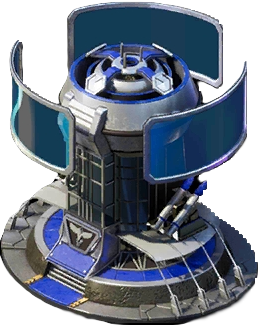
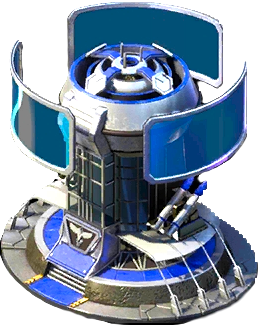
fix: image display objects

diff --git a/src/GameScene/Map/Map.ts b/src/GameScene/Map/Map.ts
@@ -63,16 +63,17 @@ export class GameMap extends Container {
         // create const objects base on matrix map
         map.forEach((val, idxX) => {
             val.forEach((value, idxY) => {
+                const grass = new Sprite(AssetsLoader.getTexture('grass-1'));
+                grass.width = 32,
+                grass.height = 32,
+                grass.anchor = 0.5;
+                grass.position = { x: idxX * 32 + 16, y: idxY * 32 + 16 };
+                this.addChild(grass);
+                grass.zIndex = 0;
                 if (value === 1) {
 
                     // create grass on map
-                    const grass = new Sprite(AssetsLoader.getTexture('grass-1'));
-                    grass.width = 32,
-                    grass.height = 32,
-                    grass.anchor = 0.5;
-                    grass.position = { x: idxX * 32 + 16, y: idxY * 32 + 16 };
-                    this.addChild(grass);
-                    grass.zIndex = 1;
+
                 }
                 if (value === 0) {
 
@@ -112,7 +113,8 @@ export class GameMap extends Container {
                     towerBase.width = 32;
                     towerBase.height = 32;
                     towerBase.zIndex = 3;
-                    towerBase.tint = 'f7f28d';
+                    towerBase.alpha = 0.8;
+                    // towerBase.tint = 'f7f28d';
 
                     this._towerBase.push(towerBase);
                     this.addChild(towerBase);
@@ -176,6 +178,8 @@ export class GameMap extends Container {
             }
             // send event to ui basic board display new wave
             Emitter.emit(AppConstants.event.displayWave, this._wave);
+            // plus gold for player at new wave
+            Emitter.emit(AppConstants.event.plusGold, (10 + this._wave));
             this._enemiesController.spawnWave(this._wave, { x: 15 * 32, y: -100 });
             // change texture of nuclear base
             this._nuclearBase.gotoAndStop(this._wave - 1);

diff --git a/src/ObjectsPool/Tower/Tower.ts b/src/ObjectsPool/Tower/Tower.ts
@@ -142,8 +142,8 @@ export class Tower extends BaseObject {
         Emitter.emit(AppConstants.event.addChildToScene, this._upgradeLevelImage);
 
 
-        this._dame.max = this._dame.max * this._level;
-        this._dame.min = this._dame.min * this._level;
+        this._dame.max += this._dame.max;
+        this._dame.min += this._dame.max - 50;
         this.fireTimeCd.fireTimeConst -= this.fireTimeCd.fireTimeConst / 10 ;
         this.effectArena += 15;
         this.circleImage.width = this.effectArena * 2;

diff --git a/src/GameScene/Constants.ts b/src/GameScene/Constants.ts
@@ -37,9 +37,9 @@ export namespace AppConstants {
 
     export const dame = {
         crystal_maiden: { min: 0, max: 0 },
-        mirana: { min: 100, max: 120 },
-        tinker: { min: 200, max: 220 },
-        clockwerk: { min: 200, max: 230 }
+        mirana: { min: 100, max: 140 },
+        tinker: { min: 200, max: 240 },
+        clockwerk: { min: 200, max: 250 }
     };
 
     export const fireTimeCd = {
